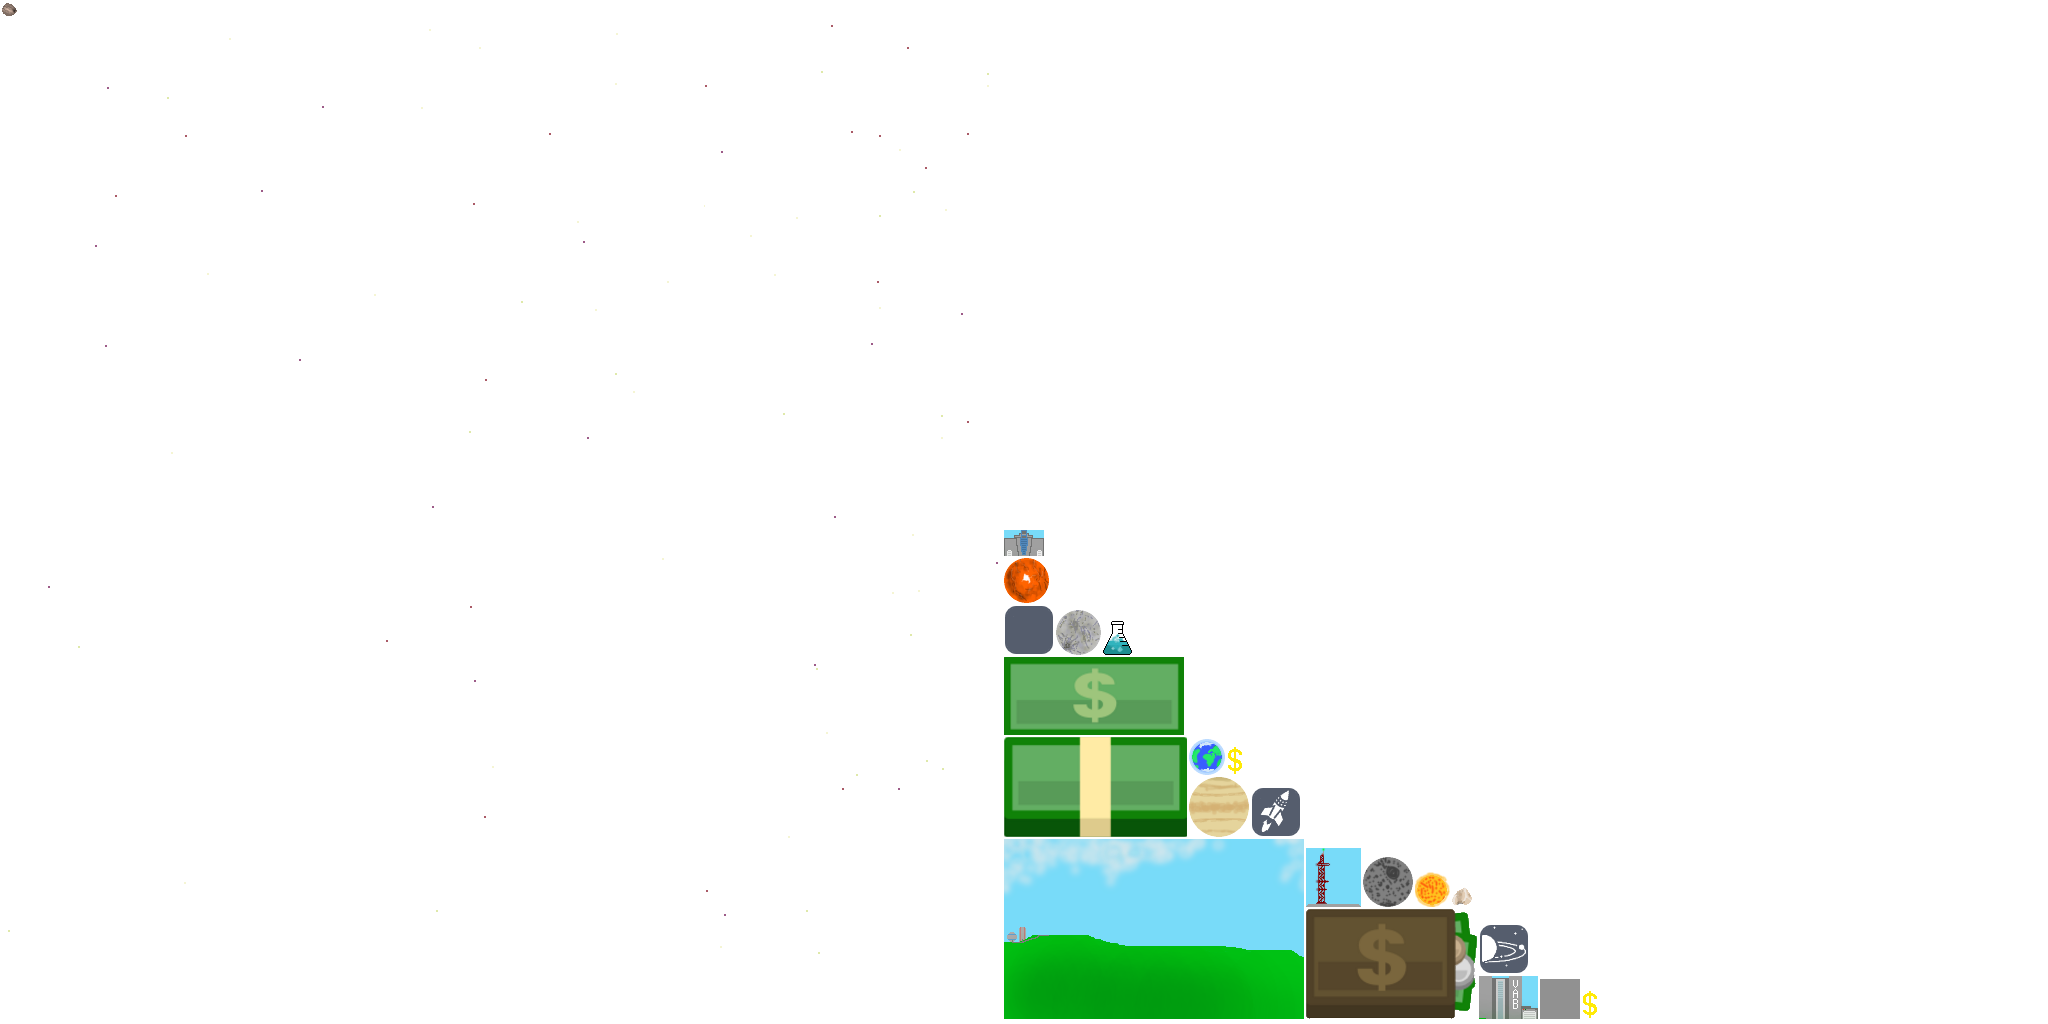
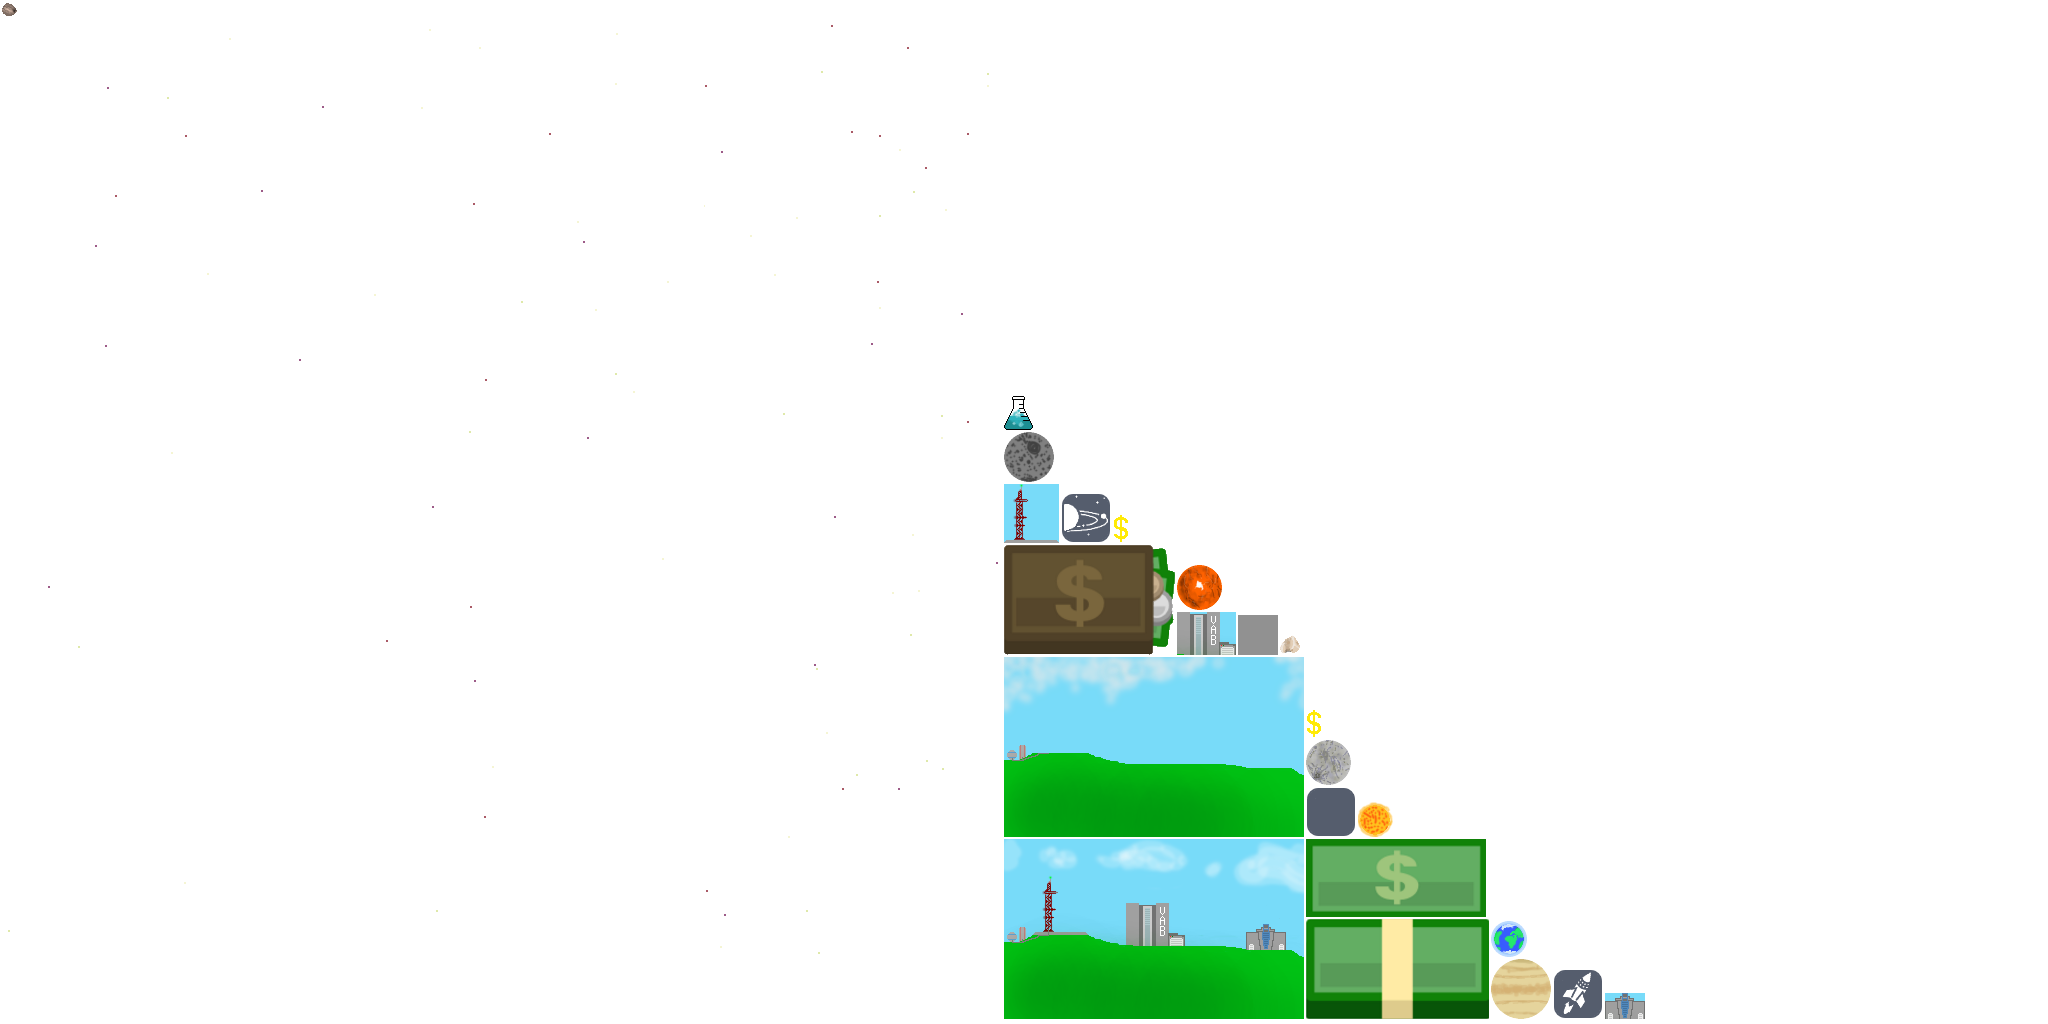
STABLE! Todo Add more GUI and screen transition

Changed region(s): [[0.4688, 0.4062, 0.8125, 1.0]]

diff --git a/core/src/com/martinbrunzell/solarquest/screens/MenuScreen.java b/core/src/com/martinbrunzell/solarquest/screens/MenuScreen.java
@@ -2,28 +2,102 @@ package com.martinbrunzell.solarquest.screens;
 
 import com.badlogic.gdx.Game;
 import com.badlogic.gdx.Gdx;
+import com.badlogic.gdx.Screen;
 import com.badlogic.gdx.graphics.GL20;
+import com.badlogic.gdx.graphics.OrthographicCamera;
+import com.badlogic.gdx.graphics.Texture;
+import com.badlogic.gdx.graphics.g2d.Sprite;
+import com.badlogic.gdx.graphics.g2d.SpriteBatch;
+import com.badlogic.gdx.math.Rectangle;
+import com.martinbrunzell.solarquest.SolarQuestMain;
+import com.martinbrunzell.solarquest.game.Assets;
+import com.martinbrunzell.solarquest.game.WorldController;
+import com.martinbrunzell.solarquest.game.WorldRenderer;
+import com.martinbrunzell.solarquest.game.objects.Base;
 import com.martinbrunzell.solarquest.screens.veiws.BaseScreen;
+import com.martinbrunzell.solarquest.util.Constants;
+import com.badlogic.gdx.graphics.Color;
+import com.badlogic.gdx.graphics.g2d.TextureAtlas;
+import com.badlogic.gdx.scenes.scene2d.Stage;
+import com.badlogic.gdx.scenes.scene2d.Actor;
+import com.badlogic.gdx.scenes.scene2d.ui.Button;
+import com.badlogic.gdx.scenes.scene2d.ui.CheckBox;
+import com.badlogic.gdx.scenes.scene2d.ui.Image;
+import com.badlogic.gdx.scenes.scene2d.ui.Label;
+import com.badlogic.gdx.scenes.scene2d.ui.Label.LabelStyle;
+import com.badlogic.gdx.scenes.scene2d.ui.SelectBox;
+import com.badlogic.gdx.scenes.scene2d.ui.Skin;
+import com.badlogic.gdx.scenes.scene2d.ui.Slider;
+import com.badlogic.gdx.scenes.scene2d.ui.Stack;
+import com.badlogic.gdx.scenes.scene2d.ui.Table;
+import com.badlogic.gdx.scenes.scene2d.ui.TextButton;
+import com.badlogic.gdx.scenes.scene2d.ui.Window;
+import com.badlogic.gdx.scenes.scene2d.utils.ChangeListener;
 
-public class MenuScreen extends AbstractGameScreen{
+public class MenuScreen implements Screen {
+    private Game game;
+    private Base base;
+    private SpriteBatch batch;
+    private Sprite sprite;
+    private OrthographicCamera cam;
+    private Sprite background;
+    private Rectangle mission;
+    private Rectangle vab;
+    private Rectangle lab;
+
+
 
     public MenuScreen (Game game) {
-        super(game);
+        this.game = game;
     }
 
     @Override
     public void render(float deltaTime) {
-        Gdx.gl.glClearColor(0.0f, 0.0f, 0.0f, 1.0f);
-        Gdx.gl.glClear(GL20.GL_COLOR_BUFFER_BIT);
-        if(Gdx.input.isTouched())
-            game.setScreen(new BaseScreen(game));
+        cam.update();
+
+        batch.setProjectionMatrix(cam.projection);
+        batch.begin();
+
+        background.draw(batch);
+
+        batch.end();
+
+        if(Gdx.input.isTouched()){
+            System.out.println("X:"+Gdx.input.getX() + " Y:"+Gdx.input.getY());
+            game.setScreen(new GameScreen(game));
+        }
+
     }
+
 
     @Override public void resize(int width, int height) {}
 
-    @Override public void show() {}
+    @Override public void show() {
+        base = new Base();
+        batch = new SpriteBatch();
+        sprite = new Sprite(Assets.instance.base.background.getTexture());
+        cam = new OrthographicCamera();
+        background = new Sprite(new Texture("assets-raw/images/baseBackground.png"));
+        background.setSize(Gdx.graphics.getWidth(), Gdx.graphics.getHeight());
+        background.setPosition(Gdx.graphics.getWidth() / 2 * -1, Gdx.graphics.getHeight() / 2 * -1);
+
+        cam = new OrthographicCamera();
+        cam.setToOrtho(false);
+
+        //mission.set()
+    }
 
     @Override public void hide() {}
 
+    @Override
+    public void dispose() {
+
+    }
+
     @Override public void pause() {}
+
+    @Override
+    public void resume() {
+
+    }
 }

diff --git a/core/src/com/martinbrunzell/solarquest/screens/GameScreen.java b/core/src/com/martinbrunzell/solarquest/screens/GameScreen.java
@@ -1,22 +1,23 @@
-package com.martinbrunzell.solarquest.screens.veiws;
+package com.martinbrunzell.solarquest.screens;
 
 import com.badlogic.gdx.Game;
 import com.badlogic.gdx.Gdx;
+import com.badlogic.gdx.Screen;
 import com.badlogic.gdx.graphics.GL20;
 import com.martinbrunzell.solarquest.game.WorldController;
 import com.martinbrunzell.solarquest.game.WorldRenderer;
-import com.martinbrunzell.solarquest.screens.AbstractGameScreen;
 
-public class GameScreen extends AbstractGameScreen {
+public class GameScreen implements Screen {
     private static final String TAG = GameScreen.class.getName();
 
     private WorldController worldController;
     private WorldRenderer worldRenderer;
+    private Game game;
 
     private boolean paused;
 
     public GameScreen(Game game) {
-        super(game);
+        this.game = game;
     }
 
     @Override
@@ -42,6 +43,10 @@ public class GameScreen extends AbstractGameScreen {
     }
 
     @Override public void hide() {
+    }
+
+    @Override
+    public void dispose() {
         worldRenderer.dispose();
         Gdx.input.setCatchBackKey(false);
     }
@@ -53,7 +58,6 @@ public class GameScreen extends AbstractGameScreen {
 
     //Only called in Android!
     @Override public void resume() {
-        super.resume();
         paused = false;
 
     }

diff --git a/core/src/com/martinbrunzell/solarquest/game/WorldRenderer.java b/core/src/com/martinbrunzell/solarquest/game/WorldRenderer.java
@@ -3,6 +3,7 @@ package com.martinbrunzell.solarquest.game;
 import com.badlogic.gdx.graphics.OrthographicCamera;
 import com.badlogic.gdx.graphics.g2d.SpriteBatch;
 import com.badlogic.gdx.math.Vector3;
+import com.martinbrunzell.solarquest.game.objects.Base;
 import com.martinbrunzell.solarquest.game.objects.Space;
 import com.martinbrunzell.solarquest.game.objects.planets.Earth;
 import com.martinbrunzell.solarquest.game.objects.planets.Sun;
@@ -16,16 +17,15 @@ public class WorldRenderer implements MediaDisposer.Disposable{
     private SpriteBatch batch;
     private WorldController worldController;
 
-    //Game objects
-    private Space space;
-    private Sun sun;
-    private Earth earth;
+
+
 
     public WorldRenderer(WorldController worldController) {
         this.worldController = worldController;
         init();
 
     }
+
 
     private void init() {
         batch = new SpriteBatch();
@@ -49,6 +49,15 @@ public class WorldRenderer implements MediaDisposer.Disposable{
 
         renderWorld(batch);
         renderHUD(batch);
+
+        batch.end();
+    }
+
+    public void renderBase () {
+        batch.begin();
+        camera.position.set(0,0,0);
+        camera.update();
+        worldController.base.render(batch);
 
         batch.end();
     }

diff --git a/core/src/com/martinbrunzell/solarquest/game/objects/Base.java b/core/src/com/martinbrunzell/solarquest/game/objects/Base.java
@@ -1,0 +1,35 @@
+package com.martinbrunzell.solarquest.game.objects;
+
+import com.badlogic.gdx.graphics.g2d.SpriteBatch;
+import com.badlogic.gdx.graphics.g2d.TextureRegion;
+import com.martinbrunzell.solarquest.game.Assets;
+
+public class Base extends AbstractWorldObject{
+
+    private TextureRegion reg;
+
+    public  Base() {
+        init();
+    }
+
+    private void init() {
+        reg = Assets.instance.base.background;
+        dimension.set(480, 800);
+        position.set(50, 50);
+        bounds.set(position.x, position.y, dimension.x, dimension.y);
+        origin.set(0,0);
+    }
+
+    @Override
+    public void update(float deltaTime) {
+
+    }
+
+    @Override
+    public void render(SpriteBatch batch) {
+        batch.draw(reg.getTexture(), position.x, position.y, origin.x, origin.y,
+                dimension.x, dimension.y, scale.x, scale.y, rotation, reg.getRegionX(), reg.getRegionY(),
+                reg.getRegionWidth(), reg.getRegionHeight(), false, false);
+    }
+
+}

diff --git a/core/src/com/martinbrunzell/solarquest/game/WorldController.java b/core/src/com/martinbrunzell/solarquest/game/WorldController.java
@@ -2,6 +2,7 @@ package com.martinbrunzell.solarquest.game;
 
 import com.badlogic.gdx.*;
 import com.badlogic.gdx.math.Vector2;
+import com.martinbrunzell.solarquest.game.objects.Base;
 import com.martinbrunzell.solarquest.game.objects.Space;
 import com.martinbrunzell.solarquest.game.objects.planets.*;
 import com.martinbrunzell.solarquest.screens.MenuScreen;
@@ -24,6 +25,8 @@ public class WorldController extends InputAdapter{
     protected Mars mars;
     protected Mars_Phobos mars_phobos;
     protected Mars_Deimos mars_deimos;
+
+    protected Base base;
 
     private float test = 0;
 
@@ -53,6 +56,7 @@ public class WorldController extends InputAdapter{
         mars = new Mars(350, 6f, 120, sun);
         mars_phobos = new Mars_Phobos(20, 0.5f, 200, mars);
         mars_deimos = new Mars_Deimos(25, 2, 150, mars);
+        base = new Base();
 
     }
 

diff --git a/core/src/com/martinbrunzell/solarquest/SolarQuestMain.java b/core/src/com/martinbrunzell/solarquest/SolarQuestMain.java
@@ -1,9 +1,6 @@
 package com.martinbrunzell.solarquest;
 
-import com.badlogic.gdx.Application;
-import com.badlogic.gdx.ApplicationListener;
-import com.badlogic.gdx.Game;
-import com.badlogic.gdx.Gdx;
+import com.badlogic.gdx.*;
 import com.badlogic.gdx.assets.AssetManager;
 import com.badlogic.gdx.graphics.GL20;
 import com.martinbrunzell.solarquest.game.Assets;
@@ -25,5 +22,13 @@ public class SolarQuestMain extends Game {
         setScreen(new MenuScreen(this));
 
 	}
+
+    @Override
+    public void setScreen(Screen screen) {
+        if(getScreen() != null){
+            getScreen().dispose();
+        }
+        super.setScreen(screen);
+    }
 
 }

diff --git a/core/src/com/martinbrunzell/solarquest/game/objects/planets/AbstractPlanetObject.java b/core/src/com/martinbrunzell/solarquest/game/objects/planets/AbstractPlanetObject.java
@@ -1,5 +1,6 @@
 package com.martinbrunzell.solarquest.game.objects.planets;
 
+import com.badlogic.gdx.Gdx;
 import com.badlogic.gdx.graphics.g2d.SpriteBatch;
 import com.badlogic.gdx.graphics.g2d.TextureRegion;
 import com.badlogic.gdx.math.Rectangle;
@@ -36,6 +37,7 @@ public class AbstractPlanetObject extends AbstractWorldObject{
     @Override
     public void update(float deltaTime) {
         angle += deltaTime / timeConstant;
+        //Gdx.app.debug("d", ""+angle);
         Vector2 cP = center.getPosition();
         rotation += 5 * deltaTime;
 

diff --git a/desktop/src/com/martinbrunzell/solarquest/desktop/DesktopLauncher.java b/desktop/src/com/martinbrunzell/solarquest/desktop/DesktopLauncher.java
@@ -21,6 +21,7 @@ public class DesktopLauncher {
             settings.debug = drawDebugOutline;
             settings.atlasExtension="";
             TexturePacker.process(settings, "assets-raw/images", "images", "solarquest.pack" );
+            TexturePacker.process(settings, "assets-raw/images-ui", "images", "solarquest-ui.pack");
         }
 
         LwjglApplicationConfiguration config = new LwjglApplicationConfiguration();
